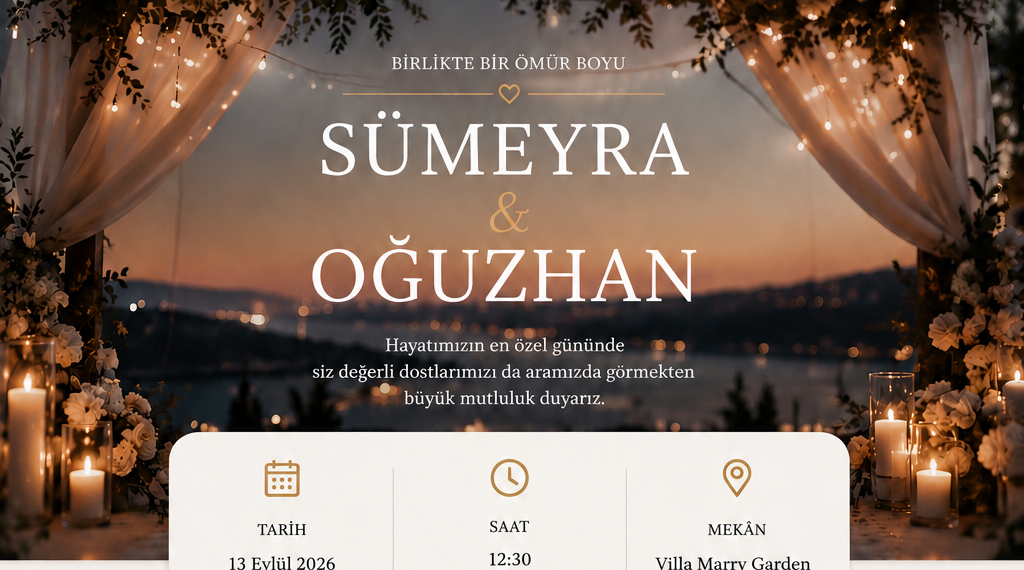
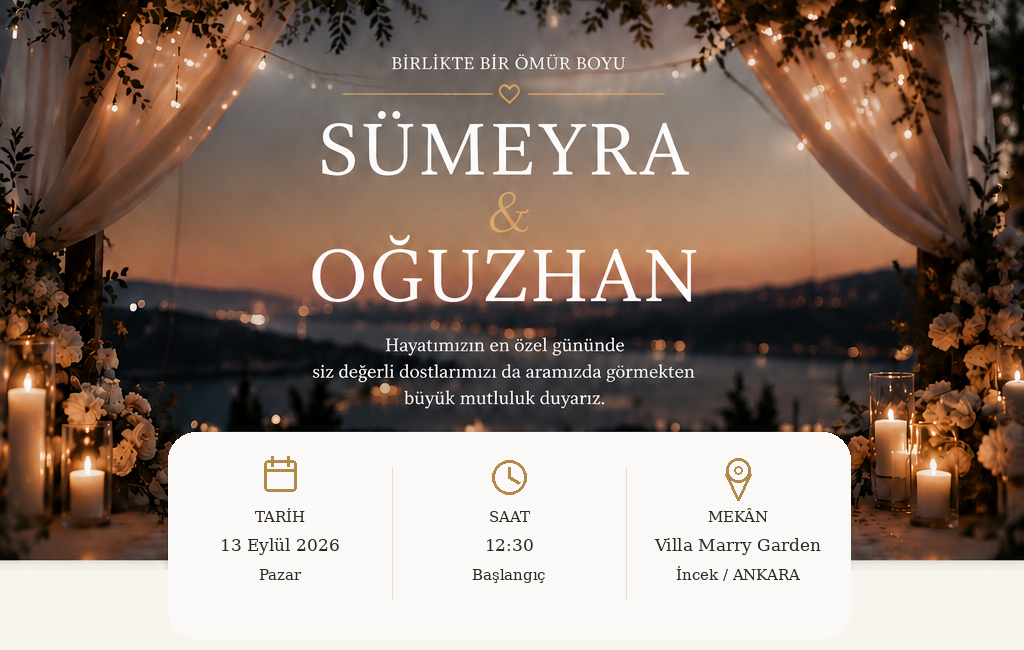
Add files via upload

diff --git a/index.html b/index.html
@@ -28,19 +28,17 @@ footer{padding:70px 20px;text-align:center;background:#eee8dc}.script{font-style
 .details,.rsvp{grid-template-columns:1fr}.detail{border-right:0;border-bottom:1px solid #e4ddd0;padding:18px}.detail:last-child{border:0}.card{margin:-45px 14px 0;padding:22px 16px}.countdown{gap:7px}.count{min-width:70px;padding:14px 8px}.num{font-size:28px}.small{font-size:9px}.cta{font-size:14px}.form-card{padding:24px 20px}
 }
 @import url('https://fonts.googleapis.com/css2?family=Cormorant+Garamond:wght@400;500;600&family=Great+Vibes&display=swap');
-.hero-image{width:100%;line-height:0;background:var(--cream)}.hero-image img{display:block;width:100%;height:auto;max-width:1024px;margin:0 auto}
+.hero-image{width:100%;line-height:0;background:var(--cream)}.hero-image img{display:block;width:100%;height:auto;max-width:none;margin:0 auto}
 .form-card .section-title{font-family:'Great Vibes',cursive;font-size:36px;line-height:1.05;color:var(--gold);letter-spacing:.02em}.form-card .section-title::first-line{font-size:1.15em}
 .map-card .section-title{font-family:'Cormorant Garamond',Georgia,serif;font-size:34px;font-weight:600;letter-spacing:.12em;color:var(--gold)}
 footer{position:relative}.script{font-family:'Great Vibes',cursive;font-style:normal;font-size:38px;color:#5b4434;line-height:1.2}
 @media(max-width:700px){.hero-image img{width:100%;height:auto}.form-card .section-title{font-size:34px}.map-card .section-title{font-size:31px}.script{font-size:32px}}
 
 .hero-image{position:relative;background:var(--cream);overflow:visible}
-.hero-image img{display:block;width:100%;height:auto;max-width:1024px;margin:0 auto}
-.hero-venue-extension{width:min(66.6%,682px);height:86px;margin:-28px auto 0;background:rgba(255,255,255,.96);border-radius:0 0 28px 28px;box-shadow:0 12px 28px rgba(0,0,0,.08);display:flex;align-items:center;justify-content:center;color:var(--ink);font-family:Georgia,"Times New Roman",serif;font-size:18px;letter-spacing:.02em}
+.hero-image img{display:block;width:100%;height:auto;max-width:none;margin:0 auto}
 .form-card .section-title{font-family:'Great Vibes',cursive !important;color:var(--gold) !important;font-size:36px !important;font-weight:400 !important;line-height:1.12;letter-spacing:.01em}
 .map-card .section-title{font-family:'Great Vibes',cursive !important;color:var(--gold) !important;font-size:36px !important;font-weight:400 !important;letter-spacing:.01em}
 @media(max-width:700px){
-  .hero-venue-extension{width:66.6%;height:70px;border-radius:0 0 20px 20px;font-size:15px}
   .form-card .section-title,.map-card .section-title{font-size:32px !important}
 }
 
@@ -49,11 +47,11 @@ footer{position:relative}.script{font-family:'Great Vibes',cursive;font-style:no
 .side-choice input{position:absolute;opacity:0;pointer-events:none;width:1px;height:1px}
 .side-choice:has(input:checked){background:#26351f;color:#fff;border-color:#26351f;box-shadow:0 5px 16px rgba(38,53,31,.16)}
 .side-choice .side-emoji{font-size:20px}
-.floral{position:absolute;z-index:0;pointer-events:none;background-repeat:no-repeat;background-size:contain;background-position:center;opacity:.92}
-.floral-left{left:0;top:690px;width:min(19vw,190px);height:690px;background-image:url('floral-left.png')}
-.floral-right{right:0;top:690px;width:min(19vw,190px);height:690px;background-image:url('floral-right.png')}
+.floral{position:fixed;z-index:0;pointer-events:none;background-repeat:no-repeat;background-size:contain;background-position:center;opacity:.82;top:42vh;height:48vh}
+.floral-left{left:0;width:min(16vw,170px);background-image:url('floral-left.png')}
+.floral-right{right:0;width:min(16vw,170px);background-image:url('floral-right.png')}
 body>header,body>section,body>footer{position:relative;z-index:1}
-@media(max-width:700px){.side-choice-wrap{grid-template-columns:1fr 1fr;gap:8px}.side-choice{font-size:13px;padding:12px 7px}.side-choice .side-emoji{font-size:18px}.floral{opacity:.72}.floral-left{width:88px;height:470px;top:760px}.floral-right{width:88px;height:470px;top:760px}}
+@media(max-width:700px){.side-choice-wrap{grid-template-columns:1fr 1fr;gap:8px}.side-choice{font-size:13px;padding:12px 7px}.side-choice .side-emoji{font-size:18px}.floral{opacity:.62;top:42vh;height:42vh;width:72px}.floral-left{left:-4px}.floral-right{right:-4px}}
 </style>
 </head>
 <body>
@@ -61,8 +59,7 @@ body>header,body>section,body>footer{position:relative;z-index:1}
 <div class="floral floral-right" aria-hidden="true"></div>
 
 <header class="hero-image">
-  <img src="hero.png" alt="Sümeyra & Oğuzhan düğün davetiyesi">
-  <div class="hero-venue-extension"><div><strong>Villa Marry Garden</strong><br><span>İncek / ANKARA</span></div></div>
+  <img src="hero-fixed.png" alt="Sümeyra & Oğuzhan düğün davetiyesi">
 </header>
 
 <section class="center">
